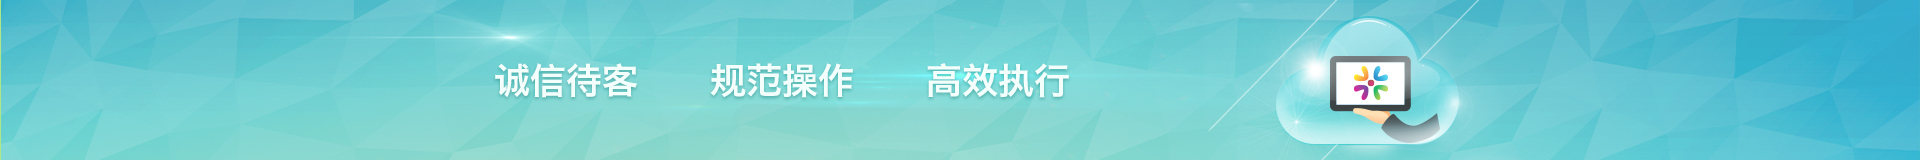
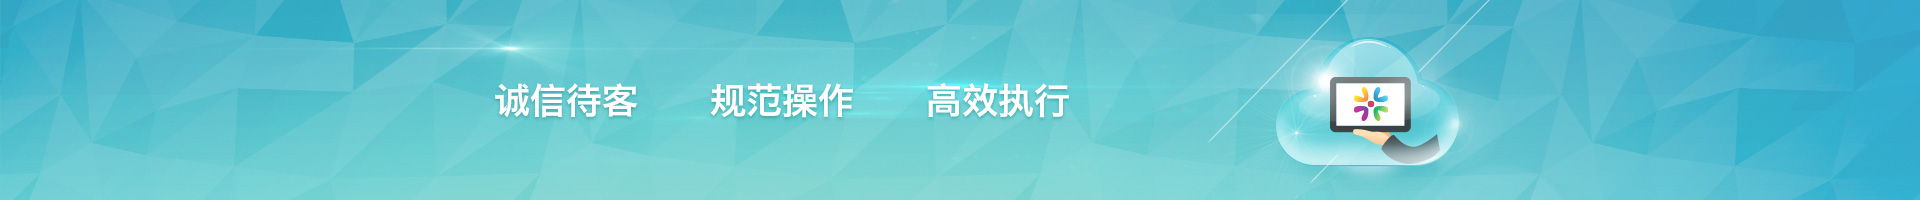
activity

diff --git a/web/ccc/activity/views/activity/index.html b/web/ccc/activity/views/activity/index.html
@@ -1,0 +1,58 @@
+<link rel="stylesheet" href="/ccc/activity/css/activity.css">
+<div class="big-container">
+    <div class="box-container">
+        <div class="top"></div>
+        <div class="vedio-box">
+          <div class="media-box">
+            <embed src="//player.youku.com/player.php/sid/XMTQyMjg2ODI4/v.swf" quality="high" width="834" height="238" align="middle" allowscriptaccess="sameDomain" type="application/x-shockwave-flash">
+          </div>      
+        </div>
+        <div class="family-box">
+        <div class="family-pic">
+           <div class="family-len-box">
+              <img src="/ccc/activity/img/family-len.png"/>
+              <p>联想控股</p>
+           </div>
+             <div class="family-len-box">
+              <img src="/ccc/activity/img/family-qilerong.png"/>
+              <p>正奇金融</p>
+           </div>
+            <div class="family-len-box">
+              <img src="/ccc/activity/img/family-zhengqi.png"/>
+              <p>奇乐融</p>
+           </div>
+        </div>
+        <div class="family-pic">
+        <p class="family-word"><img class="trigle" src="/ccc/activity/img/family-icon.png"/>奇乐融是联想控股成员企业--正奇金融旗下互联网金融战略平台，由安徽唯源金融信息服务有限公司运营。</p>
+        <p class="family-word"><img class="trigle" src="/ccc/activity/img/family-icon.png"/>践行普惠金融，助力财富增值。</p>
+        <p class="family-word"><img class="trigle" src="/ccc/activity/img/family-icon.png"/>奇乐融致力于为中小微企业及个人提供专业、透明、安心、稳盈的互联网金融服务。</p>
+        </div>
+    </div>
+        <div class="internet-box">
+          <div class="bee">   
+            <img src="/ccc/activity/img/bee.png"/>
+          </div> 
+          <p class="bee-word">历经30多年发展，联想控股已成为中国最大的多元化投资集团之一。一路走来，联想控股及柳总产业报国的理想从未改变。作为联想控股在金融领域投资最大的业务实体，正奇金融秉承联想文化，以“为中小企业融资融智，推动实体经济发展”为使命，不遗余力地为当地中小企业提供高效的金融服务，解决中小企业融资难问题。截至2015年6月末，公司业务规模达114.16亿元，目前已累计为2000多家中小企业提供了融资支持和服务，对地方经济做出了突出贡献。正奇金融深耕细作中小企业融资服务这个市场，将为奇乐融发展提供更多的优质项目资源。联想控股“投资+实业”的布局，也将为奇乐融提供更多产融结合的机会。</p>    
+        </div>
+        <div class="p2p-box">
+            <div class="p2p">
+              <img src="/ccc/activity/img/p2p-pic.png"/>
+            </div>
+            <p class="bee-word p2p-word">作为正奇金融新的核心业务板块，奇乐融的使命与联想控股、正奇金融一脉相承，那就是——“践行普惠金融，助力财富增值”。奇乐融为广大优质的中小微企业服务，将社会金融资源对接到实体经济。同时，奇乐融是个人财富管理的好帮手，通过推出创新的互联网产品，为投资人提供安全可靠的理财服务。奇乐融将向着“立志成为一家有影响力、有公信力、有创新力和有竞争力的一流互联网金融服务平台”的愿景出发，“放飞梦想、自强不熄”。</p>
+        </div>
+        <div class="tips-box">
+            <div class="tips">
+              <p class="family-word tips-top"><img src="/ccc/activity/img/family-icon.png"/>1、2015年6月29日，联想控股股份有限公司于香港联合交易所主板正式挂牌交易，股票代码：3396.HK。</p>
+              <p class="family-word"><img src="/ccc/activity/img/family-icon.png"/>2、联想控股通过战略投资业务，布局于潜力巨大的行业，投资并长期持有其中有价值的企业。目前，联想控股已涉足IT、</p>
+                <span class="tips-content">金融服务、现代服务、农业与食品、房地产以及化工与能源材料六大领域，旗下拥有十余家成员企业。</span>
+              <p class="family-word"><img src="/ccc/activity/img/family-icon.png"/>3、联想控股愿景：以产业报国为己任，致力于成为一家值得信赖并受人尊重，在多个行业拥有领先企业，在世界范围内具  
+     有影响力的国际化投资控股公司。</p>
+            </div>
+        </div>
+        <div class="btn-box">
+           <div class="regist-box">
+             <a href="/register"><button class="regist">立即注册</button></a>
+           </div>
+        </div>
+    </div>
+</div>

diff --git a/web/ccc/activity/css/activity.css b/web/ccc/activity/css/activity.css
@@ -1,0 +1,124 @@
+.big-container{
+    background:url('/ccc/activity/img/bg.png')center top no-repeat;
+    width:auto;
+    margin: 0px auto;
+    height: 4266px;
+}
+.top{
+    height:650px;
+}
+.box-container{
+/*    width:1100px;*/
+/*    margin: 0px auto;*/
+}
+.family-len-box{
+    font-size: 30px;
+    color: #009ada;
+    text-align: center;
+    float: left;
+    margin-left: 60px;
+    margin-right: 40px;
+    margin-top: 216px;
+}
+.family-pic{
+    width: 980px;
+    margin: 0px auto;
+}
+.trigle{
+    margin-left: 50px;
+    margin-right: 16px;
+}
+.media-box{
+    width: 834px;
+    margin: 0 auto;
+}
+.vedio-box{
+    background:url('/ccc/activity/img/vedio-bottom.png')center 204px no-repeat;
+    height: 390px;
+}
+.family-box{
+    background:url('/ccc/activity/img/family.png')center top no-repeat;
+    height: 688px;
+    margin-top: 100px;
+}
+.family-word{
+    font-size: 16px;
+    color: #4a4a4a;
+    line-height: 40px;
+}
+.family-len-box p{
+    line-height: 100px;
+}
+.internet-box{
+    background:url('/ccc/activity/img/internet1.png')center top no-repeat;
+    height: 1010px;
+    margin-top: 70px;
+}
+.bee{
+     width: 1000px;
+     margin: 0 auto;
+}
+.bee img{
+    margin-top: 150px;
+    margin-left: 76px;
+}
+.bee-word{
+    width:880px;
+    margin: 0 auto;
+    font-size: 16px;
+    color:#4a4a4a;
+    line-height: 30px;
+    margin-top: 40px;
+}
+.p2p-word{
+    margin-top: 70px;
+}
+.p2p-box{
+    background:url('/ccc/activity/img/p2p.png')center top no-repeat;
+    height: 723px;
+    margin-top: 66px;
+}
+.p2p{
+     width: 1000px;
+     margin: 0 auto;
+}
+.p2p img{
+    margin-top: 150px;
+}
+.tips-box{
+    background:url('/ccc/activity/img/tips.png')center top no-repeat;
+    height: 312px;
+    margin-top: 72px;
+}
+.tips{
+    width: 910px;
+    margin:0 auto;
+    padding-top: 81px;
+    padding-left: 12px;
+}
+.tips img{
+    margin-right: 14px;
+}
+.tips-top{
+    margin-top: 10px;
+}
+.tips .tips-content{
+    margin-left: 64px;
+     font-size: 16px;
+    color: #4a4a4a;
+    line-height: 40px;
+}
+.regist{
+    width: 320px;
+    height: 60px;
+    background: #f58200;
+    border-radius: 5px;
+    border: none;
+    color: #fff;
+    font-size: 30px;
+}
+.regist-box{
+    margin:0 auto;
+    width: 320px;
+    margin-top: 68px;
+}

diff --git a/web/ccc/aboutus/views/aboutus/index.html b/web/ccc/aboutus/views/aboutus/index.html
@@ -106,7 +106,7 @@
                     <div class="brand-right">
                        <div class="brand-right-content">
                             <p><img src="/ccc/safety/img/word-control.png"/></p>
-                            <h3>优选类金融机构（小贷、担保、租赁、典当、保理等）或实力企业作为合作机构，优选合作机构推荐的项目，实现双重风控审核。专业的风控团队，严谨的风控流程，严格把关每一道审核程序。</h3>
+                            <h3>奇乐融精挑类金融机构（小贷、担保、租赁、典当、保理等）或实力企业作为保障机构，细选保障机构推荐的项目。平台所有标的项目由保障机构承担本息保障责任，若项目出现逾期，保障机构将在规定期限内履行本息兑付义务。奇乐融拥有专业的风控团队，执行严谨的风控流程，严格把关每一道审核程序。</h3>
                         </div>
                     </div>
                 </div>

diff --git a/web/ccc/newAccount/partials/settings/bankCards.html b/web/ccc/newAccount/partials/settings/bankCards.html
@@ -140,6 +140,6 @@
     <p>1、为保障您的资金安全，绑卡前请先进行实名认证。</p>
     <p>2、您所绑定的银行卡须是借记卡，奇乐融严禁利用信用卡套现。</p>
     <p>3、奇乐融目前只支持绑定一张银行卡，认证支付充值、提现采用同卡进出原则，即提现银行卡需与充值银行卡一致。</p>
-    <p>4、已绑定的银行卡如需更换，<a href="/help/login">详情查看帮助中心</a>，或联系客服：400-872-7676。</p>
+    <p>4、已绑定的银行卡如需更换，请联系客服：400-872-7676。</p>
 </div>
 <div class="img-wrapperbn"></div>

diff --git a/web/ccc/newAccount/partials/recharge/recharge.html b/web/ccc/newAccount/partials/recharge/recharge.html
@@ -4,7 +4,7 @@
             <div class="space space-10"></div>
             <div class="space space-10"></div>
             <div class="row">
-                <div class="methodwr">填写充值金额</div>
+<!--                <div class="methodwr">填写充值金额</div>-->
                 <div class="space-20"></div>
                 <div class="">
                     <div class="rows">

diff --git a/web/ccc/aboutus/router.js b/web/ccc/aboutus/router.js
@@ -56,7 +56,7 @@ module.exports = function (router) {
             text: '团队介绍',
             url: '/aboutus/team'
         }, {
-            text: '合作机构',
+            text: '合作伙伴',
             url: '/aboutus/partner',
         }, {
             text: '大 事 记',

diff --git a/web/ccc/loan/css/detail.css b/web/ccc/loan/css/detail.css
@@ -2,7 +2,9 @@
 	margin-top: 7px;
 	background-color: #f6f8fc;
 }
-
+.nav-tabs > li.active > a {
+	pointer-events: none;
+}
 .current-container {
 	width: 1100px;
 	margin: 0 auto;

diff --git a/web/ccc/safety/css/style.css b/web/ccc/safety/css/style.css
@@ -51,7 +51,7 @@
     margin-left: -960px;
 }
 .heart-banner{
-    height: 160px;
+    height: 200px;
 }
 .heart-content-box{
     width: 1100px;
